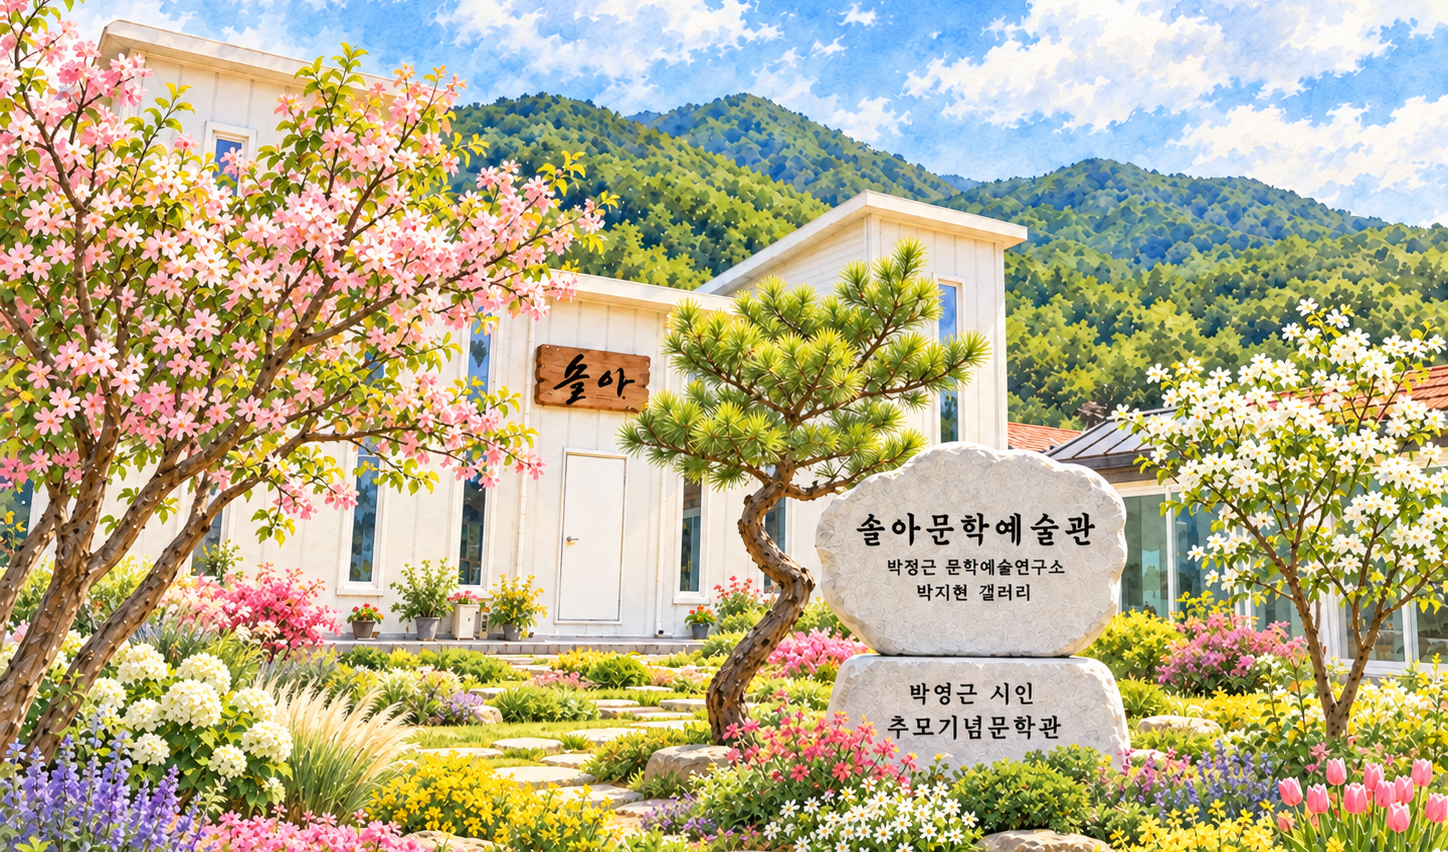
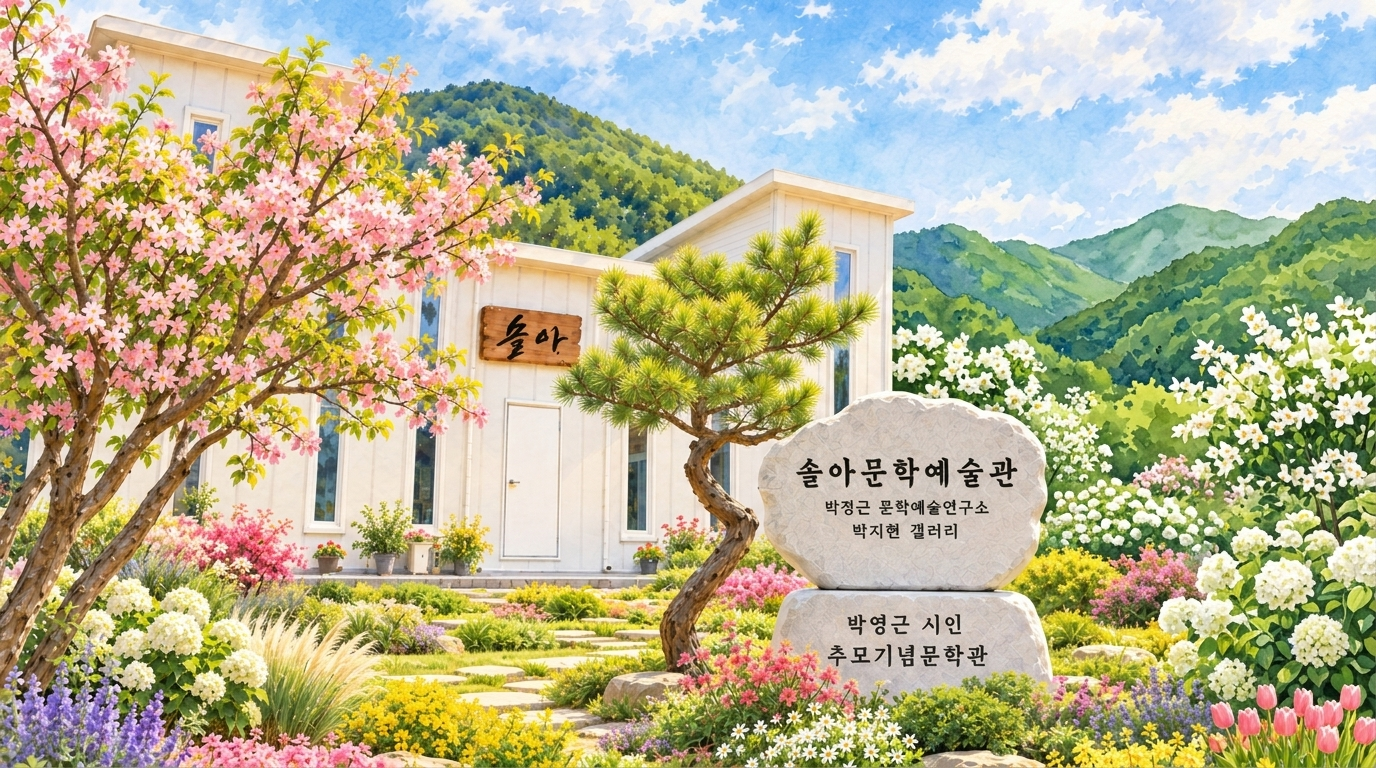
Shift composition to the left so the stone monument and grass are fully visible without card overlap

diff --git a/style.css b/style.css
@@ -419,10 +419,10 @@ img {
   position: absolute;
   inset: 0;
   background-image: 
-    linear-gradient(to right, rgba(16, 18, 22, 0.93) 0%, rgba(16, 18, 22, 0.70) 32%, rgba(16, 18, 22, 0.05) 52%, transparent 68%),
-    url('assets/images/박영근시비_앞면.jpg?v=20261001_watercolor2');
+    linear-gradient(to right, rgba(16, 18, 22, 0.93) 0%, rgba(16, 18, 22, 0.70) 30%, rgba(16, 18, 22, 0.05) 50%, transparent 66%),
+    url('assets/images/박영근시비_앞면.jpg?v=20261001_left_shift');
   background-size: cover;
-  background-position: 55% bottom;
+  background-position: center bottom;
   z-index: 1;
   filter: brightness(1.01) contrast(1.0);
   transform: none;
@@ -2694,7 +2694,7 @@ img {
     background-position: center bottom;
     background-image: 
       linear-gradient(to bottom, rgba(16, 18, 22, 0.94) 0%, rgba(16, 18, 22, 0.78) 45%, rgba(16, 18, 22, 0.94) 100%),
-      url('assets/images/박영근시비_앞면.jpg?v=20261001_watercolor2');
+      url('assets/images/박영근시비_앞면.jpg?v=20261001_left_shift');
   }
 
   .hero-art-content {

diff --git a/index.html b/index.html
@@ -19,7 +19,7 @@
   <meta property="og:type" content="website">
 
   <!-- Icons & Fonts -->
-  <link rel="stylesheet" href="style.css?v=20261001_watercolor2">
+  <link rel="stylesheet" href="style.css?v=20261001_left_shift">
   <link rel="stylesheet" href="https://cdnjs.cloudflare.com/ajax/libs/font-awesome/6.5.1/css/all.min.css">
 </head>
 
